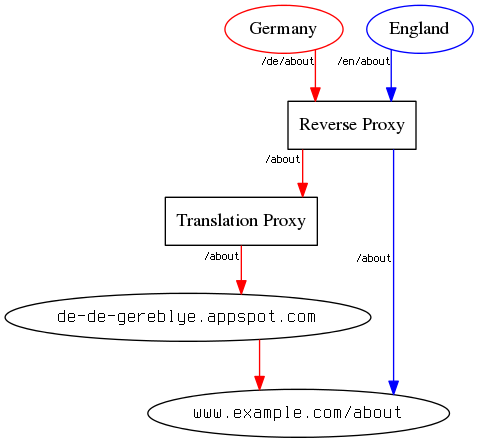
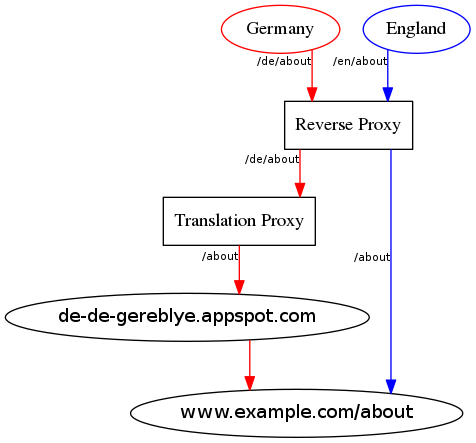
Add DA2 publish website

diff --git a/dashboard2/publishwebsite.md b/dashboard2/publishwebsite.md
@@ -1,0 +1,154 @@
+Publish website
+===============
+
+In this menu, you are provided with the means of publishing your website on a pretty domain after translation tasks have finished.
+
+The publish wizard has two options to make the site available to the web at large: serving domain mode and subdirectory publishing mode.
+
+
+# Domain settings
+
+This screen opens by default after clicking on a _Target locale_ in your list. The following settings and fields are available:
+
+## Access control
+
+You can add basic HTTP authentication to the proxied site in order to restrict access to it. Select the proxy modes that you'd like to limit access to, add a user by entering a username and password. You can add multiple users to the list.
+
+## Publish website wizard
+
+Under this menu, you will be able to publish your website either in Serving domain mode or Subdirectory publishing mode.
+
+### STEP 1 - Serving domain
+
+As a first step, you need to provide the domain name on which the translated website is to be published.
+The proxy will only publish a project on one domain name at a time, the question is which one should be the primary - naked domain (example.com) or subdomain (www.example.com)? Once that question is decided, you should then set up server-side redirection to the "main" domain (best practice prefers the `HTTP301 MOVED PERMANENTLY` status code with the `Location` header).
+
+### STEP 2 - Publishing mode
+
+#### Serving domain mode (fr.example.com)
+
+In the serving domain mode, the translation proxy will publish the translated site either on a subdomain of the original (the default behavior, such as fr.example.com), or on a completely separate naked domain (such as example.com). In order to use this mode, you (or the client) will have to modify the DNS settings corresponding to the original domain - the three to five records (three for subdomains, five for new naked domains) that need to be inserted in your DNS settings are found under the _Verification_ menu. These records will change as you enter or change the desired serving domain in the first step called _Serving domain_.
+
+#### Subdirectory publishing (example.com/fr)
+
+The alternative to subdomain-based publishing is to retain your own domain and publish the site as a subdirectory. I.e. the translated pages will appear under separate paths under the same domain as the one the project was created for (the original domain).
+
+Due to the way the proxy works, this requires a reverse proxy configuration to be placed in front of the web server. A variety of load balancer/reverse proxy solutions are available on the market, with `nginx`, `CloudFlare` and `AWS CloudFront` being three of the most well-known solutions available. See the vendor documentation for the details of setting up a reverse proxy (do note that nowadays, reverse proxies are monumentally powerful network solutions, and discussion of all their features is beyond the scope of this introductory description).
+
+### STEP 3 [Selected publishing mode: Serving domain] - Verification
+
+There are three CNAME settings that are required on your domain to enable publishing of your website. Each of the lines in the table that is displayed has a specific function:
+
+**CNAME 1** Allows mapping of the subdomain in Google AppEngine, enabling us to alter the datastream and translate the site. This row is computed from the serving domain entered in the first step called _Serving domain_, and needs to be added once per serving domain.
+
+**CNAME 2** The second line determines where the currently selected target language will be published. This defaults to the language code, but you are not obligated to keep it that way. This has to be entered separately for every target language you publish.
+
+**CNAME 3*** The third line verifies ownership of the original domain. This is computed from the user’s ID who is currently looking at the publishing page (i.e. different users will see different values, so one person should communicate this to the client and hit the **Verify** button), and needs to be added only once per serving domain as well. You can set the subdomain and domain where the translated site will appear.
+
+After all the settings have been entered into the DNS records, there is short time while the changes propagate and are replicated across the world. This can vary wildly with the DNS and hosting providers, taking anywhere between one and twenty-four hours. It is recommended to wait out the twenty-four hours, as you will not be able to click on the Next button until all checks are passed.
+
+#### HTTPS & SSL certificates
+
+Additionally, if the original site was HTTPS, or the translated sites will be served over a secure channel, an appropriate certificate and its associated key will also be needed. Ideally a wildcard certificate (one certificate for all subdomain), but Extended Validation certificates can also be used, although they require more setup work.
+
+Our support team can also provide you with the *Certificate Signing Requests* necessary for the generation of these certificates - this will also have the added benefit of not having to send the private keys over the wider web for recording in AppEngine.
+
+Additionally, we have a *Managed Certificate* program, where the proxy handles SSL certification automatically for published websites. The *Managed Certificate* program has a cost of 50EUR (60USD)/proxied domain/**year** or 100EUR (120USD)/proxied domain/**three** years.
+
+See the pertaining section of the documentation [here](../../cookbook/ssl_certificates.html).
+
+### STEP 3 [Selected publishing mode: Subdirectory publishing] - CDN / Reverse proxy
+
+We tried to provide you the absolute minimum example configurations required to achieve a workable reverse proxy using the three most popular webserver systems (Nginx, Apache httpd, and Microsoft Internet Information Systems), and also an example configuration for AWS Cloudfront CDN.
+
+If you select an option, for example _Multiple locales as a subdirectory at depth 1_, it will only show you a different configuration as an example, but as we wrote previously, you need to set up your own reverse proxy or CDN, configured appropriately. You can also setup path prefix rules under the menu _Path Specific Settings_, and we will discuss about these configuration options later.
+
+The goal of any reverse proxy configuration interoperating with a translation proxy domain requires that its configuration reflect the intent of the configuration examples.
+
+Let's clarify these snippets with a more general, high-level explanation of a reverse proxy in operation.
+
+#### Example:
+
+Suppose that we know the following about a translation project about to be published using a reverse proxy.
+
+1. The origin server domain is `www.example.com`.
+2. Source language is English.
+3. Translation exists for German
+4. German serving domain: `de-de-gereblye.app.proxytranslation.com`
+
+![Reverse proxy setup](/img/dot-graphs/reverse-proxy.png)
+
+The task of the reverse proxy, standing right at the beginning of the pipeline that will serve a client request, is to decide which target language is requested by the user and to ensure that the request is relayed to the appropriate domain that can respond with content in the appropriate language.
+
+In our example scenario, the reverse proxy has to make one decision: is the user requesting a resource in English or in German?
+
+##### Translation proxy
+
+From our perspective, The most interesting case is when a user from Germany requests `www.example.com/de/about`, the reverse proxy decides that the target language should be served via Translation proxy. It relays the request to the Google Cloud, where it is resolved to what we call the **temporary serving domain**, defined as `de-de-gereblye.app.proxytranslation.com`. In the serving subdomain mode, this domain is hidden from the user by the DNS settings added. In subdirectory publishing, the reverse proxy hides the temporary domain.
+
+You can see that `de-de-gereblye.app.proxytranslation.com` will -- same as with subdomain publishing -- relay the request and all necessary request headers to the origin server, which will respond accordingly with source language content that the Proxy then processes on the way back and sends long to the client in a translated form.
+
+Setting aside the exact details of that cloud translation pipeline, that's about it.
+
+##### Source language request
+
+Requesting the original content is a relatively straightforward process that we should nevertheless describe in brief for the sake of completeness.
+
+If a user in England requests `www.example.com/en/about`. The reverse proxy strips the `/en` prefix, decides on the language to be served and relays the request to the origin server.
+
+In this case, there is no more proxy mediation (that is, no Translation Proxy) between the origin server and the requesting client, so the server response is returned and the user can peruse the webpage in the original language.
+
+Note that on the origin server, the `/en` prefix does not exist as part of the directory structure - it is a virtual prefix used by the reverse proxy to dispatch to different domains based on the target language.
+
+If the origin server is capable of providing content in more than one target language, the reverse proxy should presumably do the same thing for each of those target languages. If a request for `www.example.com/de/about` can be fulfilled by the origin server alone, the reverse proxy will relay that request straight to the origin server (where it is assumed that the server backend will make the decision based on the HTTP request headers received).
+
+### STEP 4 - Summary
+
+After configuring your publishing mode, in this last step, you will see a short summary. By clicking on the **PUBLISH** button, you need to accept all of the options in the _Disclaimer_ popup in order to be able to publish your translated website.
+
+If the publishing is successful, then the serving domain name will appear in the Live domain column.
+
+### Unpublish
+
+There are basically two options available for you:
+
+- **Unpublish:** In this case, the related entities from our database will be removed, and it would make an error page appear when the translations are requested, which means that the publishing is disabled by our side. When you select this option, the serving domain name will be visible under the column called _Verified domain._
+Alternatively, if you or your client removes the DNS records relating to the projects (especially the ghs.domainverify.net or ghs.googlehosted.com records), the requests will no longer reach the proxy, and translations will cease to be served.
+
+- **Delete:** Removing the target locale will disable the translated website and make all the translated segments disappear. However, translations are retained in case of deleted languages as well, which means that the language can be re-added and the translations will be immediately available.
+
+
+## Path specific settings
+
+### Roots (path prefix manipulation)
+
+Please be aware that the path mapping tester would be available only on published locales.
+We gathered below a few examples for you, in order to show you the behavior of these configurations.
+
+_Publish translated content on www.example.com at directory depth_ `1`
+
+If your publishing mode is subdirectory publishing, then this value will change automatically from 0 to 1.
+
+_Translated path prefix (removed from original path, added to translated)_ `/en/`
+
+Removed from original path means that the original / remote server will never receive this path prefix, it will be visible only in the client translated URL, as you can see below:
+
+![Translated path prefix test](/img/dot-graphs/translated_path_prefix.png)
+
+However, be aware that the directory depth number will increase according to the number of path prefix you describe in this field:
+
+![Translated path prefix second test](/img/dot-graphs/translated_path_prefix2.png)
+
+_Original path prefix (added to original path, removed from translated)_ `/en/`
+
+Using together Translated and Original path prefix options, they can be used to swap the root element of the link:
+
+![Translated path prefix second test](/img/dot-graphs/original_path_prefix.png)
+
+### Path segment translation
+
+With this option, you will be able to add paths segments (words between two forward slashes) here to translate them. You are limited to 50 entries at any time, but these will be translated _wherever_ they occur, for example:
+
+www.example.com/example --> www.example.com/translation
+
+www.example.com/notexample/nottranlated/example/text --> www.example.com/notexample/nottranlated/translation/text

diff --git a/dashboard2/index.rst b/dashboard2/index.rst
@@ -4,3 +4,6 @@ The Dashboard 2.0
 
 .. toctree::
    complexitymatrix
+
+.. toctree::
+   publishwebsite
